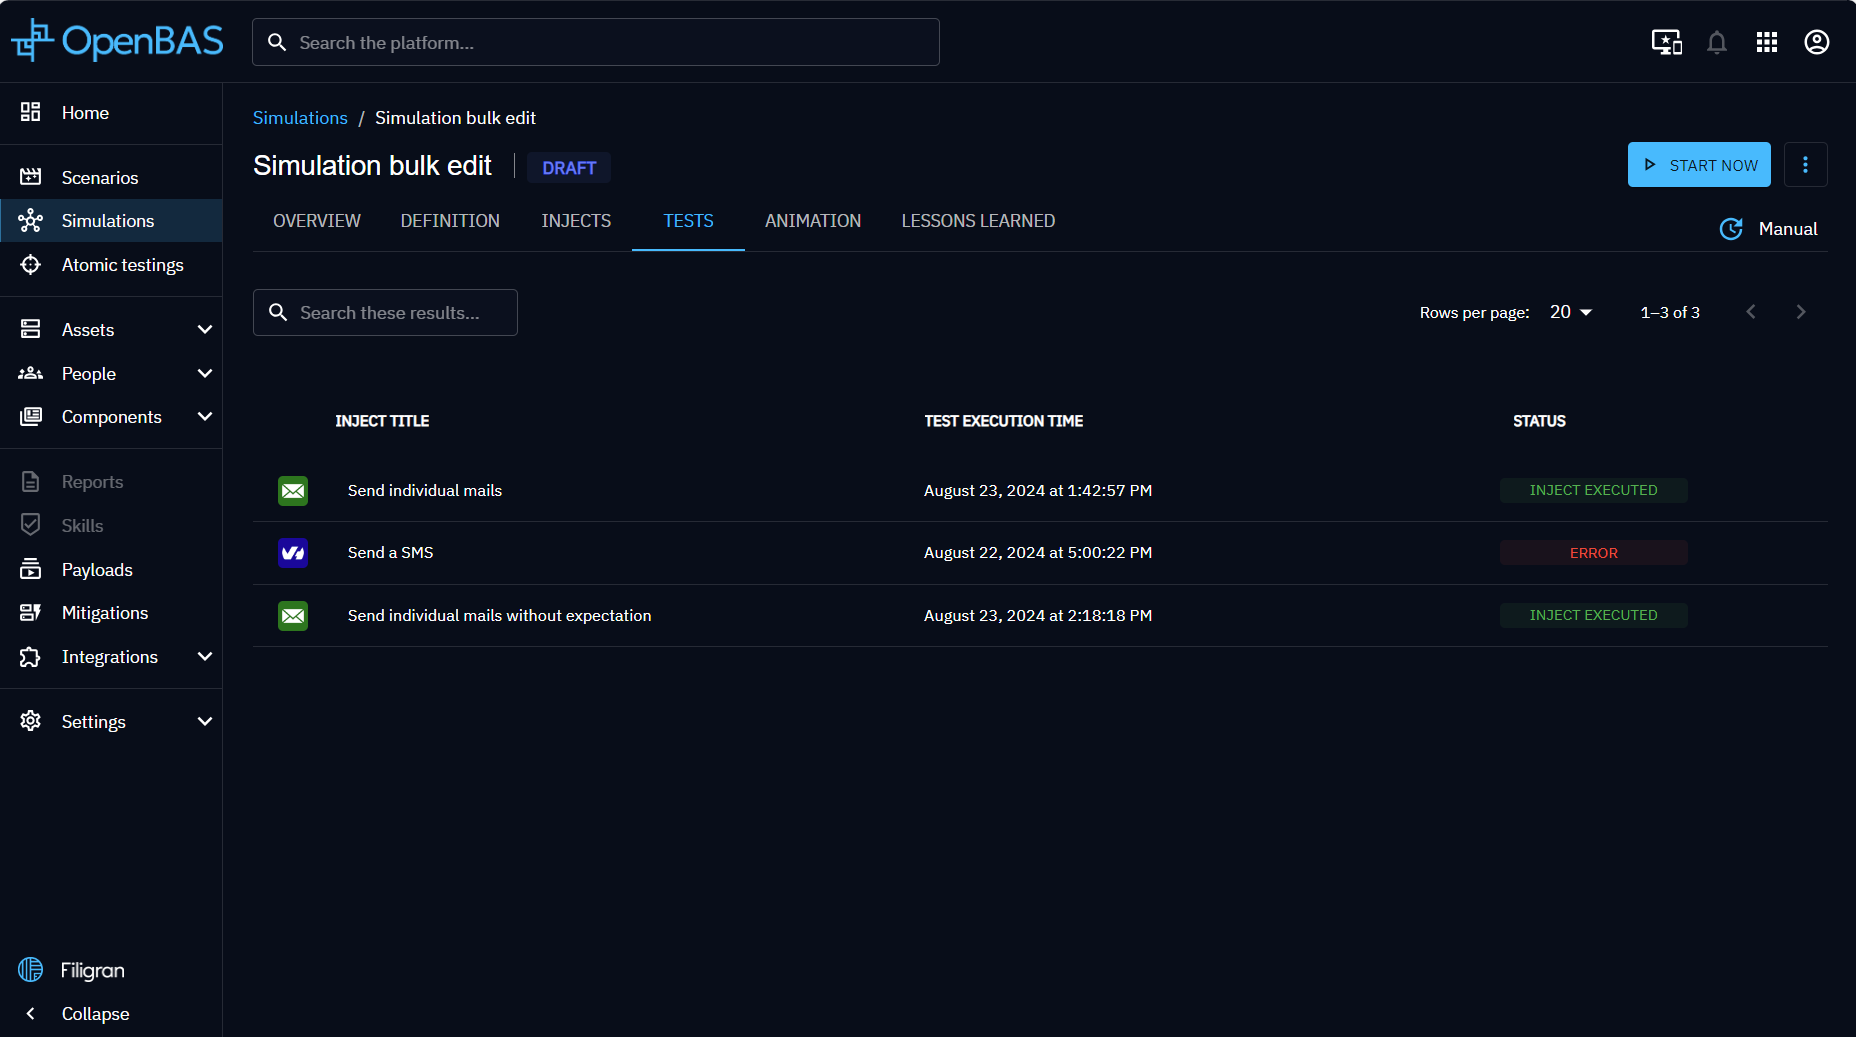
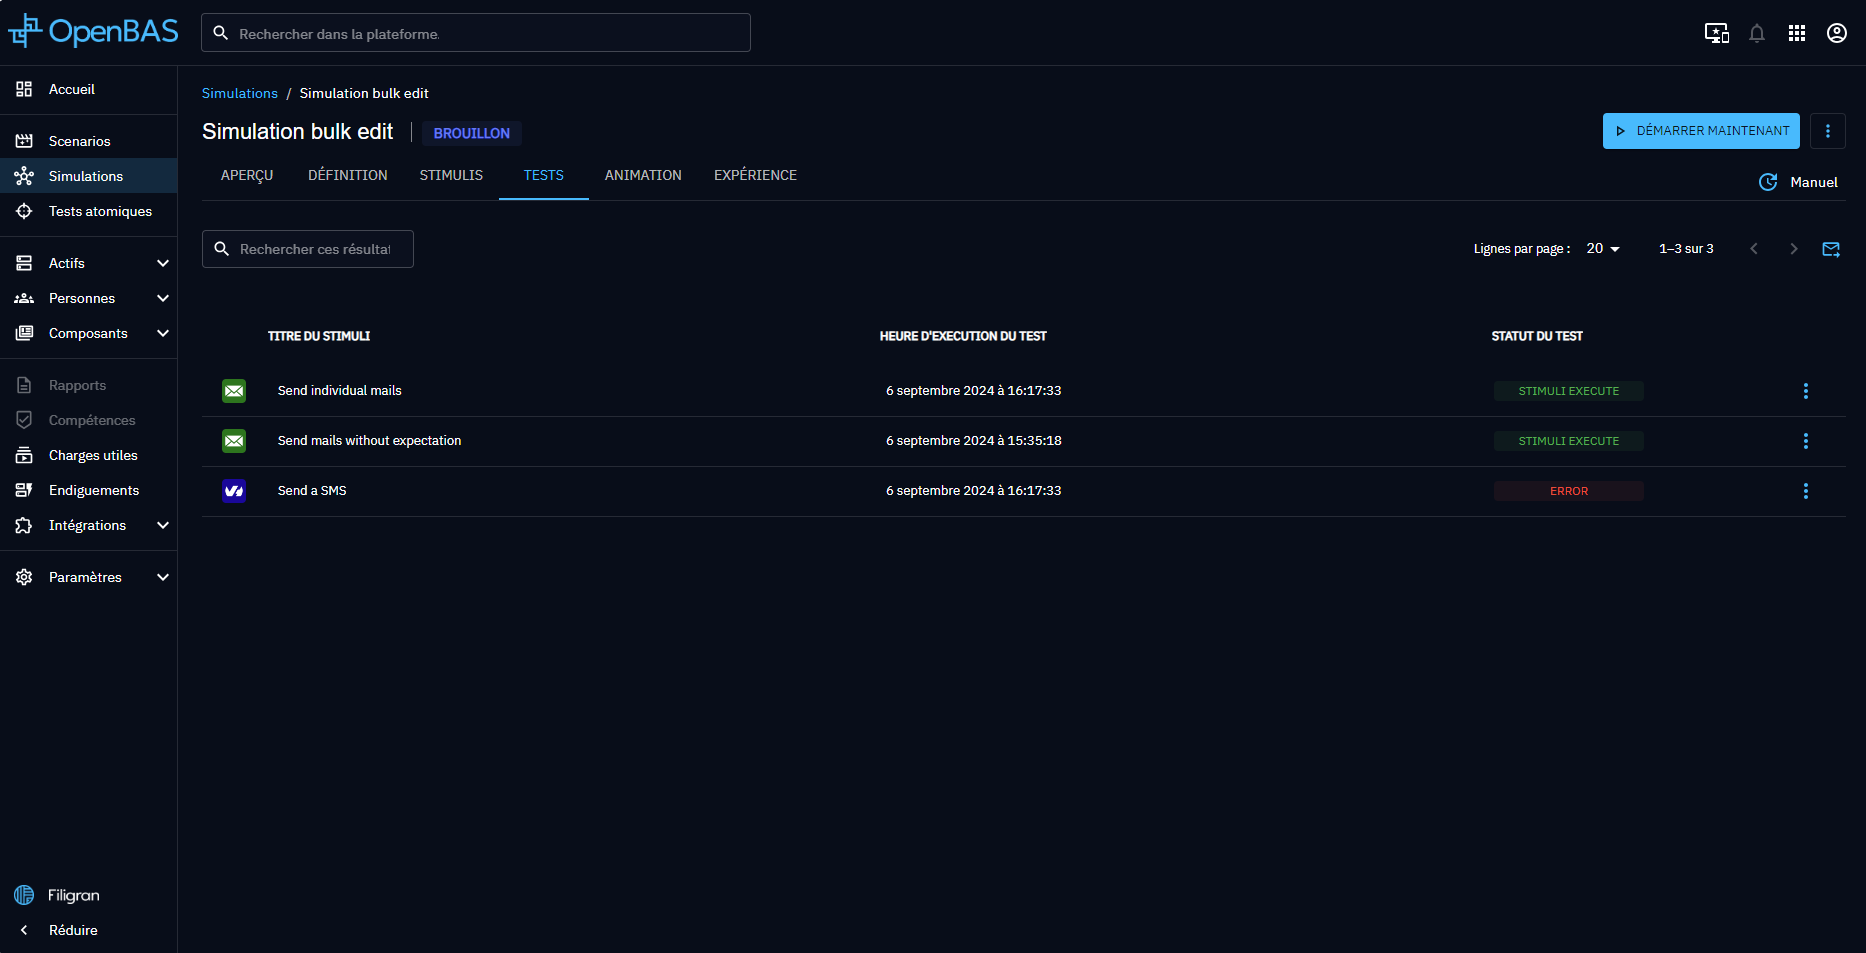
Add replay tests infos in Injects page

diff --git a/docs/docs/usage/injects.md b/docs/docs/usage/injects.md
@@ -139,7 +139,7 @@ Select the injects you want to test then click on the bug icon. A confirmation d
 
 ![Inject test in bulk in a Simulation](assets/inject_test_bulk_confirmation_dialog.png)
 
-As mentioned in the dialog, only sms and emails inject will be tested. They also need to have teams defined. 
+As mentioned in the dialog, only sms and emails injects will be tested. The emails/sms are sent to the current user. 
 
 After the launch of the test, you are redirected to the tests list page.
 
@@ -152,3 +152,11 @@ A "Tests" tab is available in simulations and scenarios. The list of all the tes
 
     Only the latest test is displayed for each inject.
 
+### Replay tests
+Each test in the list has a menu allowing users to delete or replay the test.
+
+![Inject test replay](assets/inject_replay_test.png)
+
+After confirming the replay of the test, the details are updated.
+
+The user can also replay all the tests in the list. An icon similar to the one in the injects toolbar is available at the top of the list. After clicking on it, the user confirms the tests launch and the details are updated.
